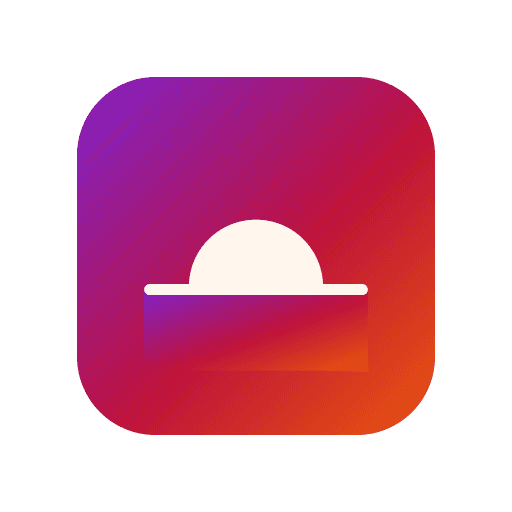
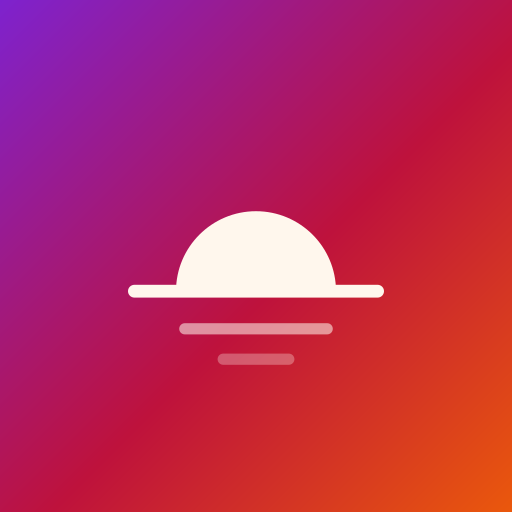
feat(m7): PWA, polish & README
- Ikon final dari public/logo.svg (perbaikan seam gradien, maskable full-bleed),
  generator `npm run ikon`; manifest dilengkapi
- Banner "Tidak ada koneksi" (tombol kirim nonaktif saat offline) dan
  "Versi baru tersedia" (registerType prompt)
- Target sentuh >= 44 px, select 16 px, invalidasi query setelah ubah master
- README: run lokal, env, setup Google Sheets, deploy, daftar endpoint

diff --git a/src/pages/MasterPage.tsx b/src/pages/MasterPage.tsx
@@ -12,6 +12,7 @@ import { SegmentedControl } from "../components/ui/SegmentedControl";
 import { EmptyState, ErrorState, ListSkeleton } from "../components/ui/States";
 import { useMe } from "../hooks/useAuth";
 import { masterKeys, useAkun, useKategori, type Akun, type JenisAkun, type Kategori, type TipeKategori } from "../hooks/useMaster";
+import { invalidateKeuangan } from "../hooks/useTransaksi";
 import { useToast } from "../hooks/useToast";
 import { ApiError, send } from "../lib/api";
 import { formatRupiah } from "../lib/format";
@@ -79,13 +80,13 @@ function AkunRow({ akun, isAdmin, onEdit, move }: {
         <div className="flex min-w-0 flex-1 items-center gap-3 px-4 py-3">{body}</div>
       )}
       {move && (
-        <div className="flex flex-col pr-2">
+        <div className="flex pr-1">
           <button
             type="button"
             onClick={move.up}
             disabled={!move.up || move.pending}
             aria-label={`Naikkan ${akun.nama}`}
-            className={`flex h-7 w-11 items-center justify-center rounded-lg text-stone-500 hover:bg-brand-50 disabled:opacity-30 ${fokus}`}
+            className={`flex size-11 items-center justify-center rounded-lg text-stone-500 hover:bg-brand-50 disabled:opacity-30 ${fokus}`}
           >
             <ChevronUp className="size-4" aria-hidden />
           </button>
@@ -94,7 +95,7 @@ function AkunRow({ akun, isAdmin, onEdit, move }: {
             onClick={move.down}
             disabled={!move.down || move.pending}
             aria-label={`Turunkan ${akun.nama}`}
-            className={`flex h-7 w-11 items-center justify-center rounded-lg text-stone-500 hover:bg-brand-50 disabled:opacity-30 ${fokus}`}
+            className={`flex size-11 items-center justify-center rounded-lg text-stone-500 hover:bg-brand-50 disabled:opacity-30 ${fokus}`}
           >
             <ChevronDown className="size-4" aria-hidden />
           </button>
@@ -117,7 +118,7 @@ function AkunForm({ akun, nextUrutan, onDone }: { akun: Akun | null; nextUrutan:
       return send("PUT", `/akun/${akun.id}`, { nama: form.nama, jenis: form.jenis, urutan: akun.urutan });
     },
     onSuccess: () => {
-      qc.invalidateQueries({ queryKey: masterKeys.akun });
+      invalidateKeuangan(qc); // nama/urutan akun tampil di ringkasan, riwayat, langganan
       toast.show(akun ? "Akun disimpan" : "Akun ditambahkan");
       onDone();
     },
@@ -155,7 +156,7 @@ function AkunTab({ isAdmin }: { isAdmin: boolean }) {
 
   const urutkan = useMutation({
     mutationFn: (ids: string[]) => send("PUT", "/akun/urutan", { ids }),
-    onSettled: () => qc.invalidateQueries({ queryKey: masterKeys.akun }),
+    onSettled: () => invalidateKeuangan(qc),
     onError: (e) => toast.show(e instanceof ApiError ? e.title : "Gagal mengubah urutan.", "error"),
   });
 
@@ -247,6 +248,7 @@ function KategoriForm({ kategori, tipe, onDone }: { kategori: Kategori | null; t
     },
     onSuccess: () => {
       qc.invalidateQueries({ queryKey: masterKeys.kategori });
+      invalidateKeuangan(qc);
       toast.show(kategori ? "Kategori disimpan" : "Kategori ditambahkan");
       onDone();
     },

diff --git a/scripts/buat_ikon.ts b/scripts/buat_ikon.ts
@@ -1,0 +1,51 @@
+// Generate ikon PWA dari public/logo.svg: `npm run ikon`.
+// - pwa-64/192/512, apple-touch-icon (latar penuh, tanpa sudut transparan untuk iOS), favicon.ico
+// - maskable-icon: latar gradien penuh (full-bleed), logo di zona aman 80% sesuai spesifikasi maskable
+
+import { readFileSync, writeFileSync } from "node:fs";
+import sharp from "sharp";
+
+const logo = readFileSync("public/logo.svg", "utf8");
+
+// Versi tanpa sudut membulat: dipakai untuk apple-touch-icon dan maskable
+const fullBleed = logo.replace('rx="112" fill="url(#langit)"', 'fill="url(#langit)"');
+
+// Maskable: isi (matahari + cakrawala) diperkecil ke 80% di tengah, latar tetap penuh
+const maskable = fullBleed.replace(
+  /(<rect width="512" height="512" fill="url\(#langit\)"\/>)([\s\S]*)(<\/svg>)/,
+  '$1<g transform="translate(51.2 51.2) scale(0.8)">$2</g>$3',
+);
+
+const png = (svg: string, size: number) => sharp(Buffer.from(svg), { density: 300 }).resize(size, size).png().toBuffer();
+
+/** ICO berisi satu gambar PNG (didukung semua browser modern). */
+function ico(pngData: Buffer, size: number): Buffer {
+  const header = Buffer.alloc(6);
+  header.writeUInt16LE(0, 0);
+  header.writeUInt16LE(1, 2);
+  header.writeUInt16LE(1, 4);
+  const entry = Buffer.alloc(16);
+  entry.writeUInt8(size >= 256 ? 0 : size, 0);
+  entry.writeUInt8(size >= 256 ? 0 : size, 1);
+  entry.writeUInt8(0, 2);
+  entry.writeUInt8(0, 3);
+  entry.writeUInt16LE(1, 4);
+  entry.writeUInt16LE(32, 6);
+  entry.writeUInt32LE(pngData.length, 8);
+  entry.writeUInt32LE(6 + 16, 12);
+  return Buffer.concat([header, entry, pngData]);
+}
+
+const keluaran: [string, Promise<Buffer>][] = [
+  ["public/pwa-64x64.png", png(logo, 64)],
+  ["public/pwa-192x192.png", png(logo, 192)],
+  ["public/pwa-512x512.png", png(logo, 512)],
+  ["public/apple-touch-icon-180x180.png", png(fullBleed, 180)],
+  ["public/maskable-icon-512x512.png", png(maskable, 512)],
+  ["public/favicon.ico", png(logo, 48).then((b) => ico(b, 48))],
+];
+
+for (const [file, data] of keluaran) {
+  writeFileSync(file, await data);
+  console.log(`Ditulis ${file}`);
+}

diff --git a/src/pages/RiwayatPage.tsx b/src/pages/RiwayatPage.tsx
@@ -30,7 +30,7 @@ function FilterChip({ label, value, options, onChange, wajib }: FilterChipProps)
   const aktif = Boolean(value) && !wajib;
   return (
     <span
-      className={`relative flex min-h-10 shrink-0 items-center rounded-full border text-sm font-semibold ${
+      className={`relative flex min-h-11 shrink-0 items-center rounded-full border text-base font-semibold ${
         aktif ? "border-brand-700 bg-brand-50 text-brand-700" : "border-garis bg-white text-stone-700"
       }`}
     >
@@ -38,7 +38,7 @@ function FilterChip({ label, value, options, onChange, wajib }: FilterChipProps)
         aria-label={label}
         value={value}
         onChange={(e) => onChange(e.target.value)}
-        className={`min-h-10 max-w-44 appearance-none truncate rounded-full bg-transparent pr-3 pl-4 ${aktif ? "pr-9" : ""} ${fokus}`}
+        className={`min-h-11 max-w-44 appearance-none truncate rounded-full bg-transparent pr-3 pl-4 ${aktif ? "pr-11" : ""} ${fokus}`}
       >
         {!wajib && <option value="">{label}</option>}
         {options.map((o) => (
@@ -52,7 +52,7 @@ function FilterChip({ label, value, options, onChange, wajib }: FilterChipProps)
           type="button"
           aria-label={`Hapus filter ${label}`}
           onClick={() => onChange("")}
-          className={`absolute right-1 flex size-8 items-center justify-center rounded-full hover:bg-brand-100 ${fokus}`}
+          className={`absolute right-0 flex size-11 items-center justify-center rounded-full hover:bg-brand-100 ${fokus}`}
         >
           <X className="size-4" aria-hidden />
         </button>

diff --git a/src/components/StatusBanner.tsx b/src/components/StatusBanner.tsx
@@ -1,0 +1,38 @@
+import { RefreshCw, WifiOff } from "lucide-react";
+import { useRegisterSW } from "virtual:pwa-register/react";
+import { useOnline } from "../hooks/useOnline";
+import { fokus } from "./ui/Button";
+
+/** Banner "Tidak ada koneksi" dan "Versi baru tersedia" di atas semua halaman (02 M7). */
+export default function StatusBanner() {
+  const online = useOnline();
+  const {
+    needRefresh: [perluMuatUlang],
+    updateServiceWorker,
+  } = useRegisterSW();
+
+  if (online && !perluMuatUlang) return null;
+  return (
+    <div className="sticky top-0 z-30 flex flex-col" style={{ paddingTop: "env(safe-area-inset-top)" }}>
+      {!online && (
+        <p role="status" className="flex items-center justify-center gap-2 bg-stone-800 px-4 py-2 text-sm font-semibold text-white">
+          <WifiOff className="size-4" aria-hidden />
+          Tidak ada koneksi. Perubahan belum bisa disimpan.
+        </p>
+      )}
+      {perluMuatUlang && (
+        <div role="status" className="flex items-center justify-center gap-3 bg-brand-700 px-4 py-1.5 text-sm font-semibold text-white">
+          Versi baru tersedia
+          <button
+            type="button"
+            onClick={() => updateServiceWorker(true)}
+            className={`inline-flex min-h-11 items-center gap-1.5 rounded-lg px-3 underline-offset-2 hover:underline ${fokus} focus-visible:ring-white focus-visible:ring-offset-brand-700`}
+          >
+            <RefreshCw className="size-4" aria-hidden />
+            Muat ulang
+          </button>
+        </div>
+      )}
+    </div>
+  );
+}

diff --git a/src/components/ui/Button.tsx b/src/components/ui/Button.tsx
@@ -1,5 +1,6 @@
 import type { ButtonHTMLAttributes } from "react";
 import { LoaderCircle } from "lucide-react";
+import { useOnline } from "../../hooks/useOnline";
 
 export const fokus =
   "focus-visible:outline-none focus-visible:ring-2 focus-visible:ring-brand-400 focus-visible:ring-offset-2";
@@ -16,14 +17,19 @@ interface ButtonProps extends ButtonHTMLAttributes<HTMLButtonElement> {
   variant?: keyof typeof VARIANT;
   loading?: boolean;
   block?: boolean;
+  /** Tombol yang mengirim ke server: dinonaktifkan saat offline. Default true untuk `type="submit"`. */
+  kirim?: boolean;
 }
 
-export function Button({ variant = "primary", loading, block, disabled, className = "", children, ...rest }: ButtonProps) {
+export function Button({ variant = "primary", loading, block, kirim, disabled, className = "", children, ...rest }: ButtonProps) {
+  const online = useOnline();
+  const offline = (kirim ?? rest.type === "submit") && !online;
   return (
     <button
       type="button"
       {...rest}
-      disabled={disabled || loading}
+      disabled={disabled || loading || offline}
+      title={offline ? "Tidak ada koneksi" : rest.title}
       aria-busy={loading || undefined}
       className={`inline-flex min-h-11 items-center justify-center gap-2 rounded-xl px-4 text-sm font-semibold transition-colors disabled:cursor-not-allowed ${fokus} ${VARIANT[variant]} ${block ? "w-full" : ""} ${className}`}
     >

diff --git a/src/pages/TransaksiFormPage.tsx b/src/pages/TransaksiFormPage.tsx
@@ -245,7 +245,7 @@ function TransaksiForm({ edit }: { edit?: Transaksi }) {
                       type="button"
                       aria-pressed={form.biayaAdmin === b}
                       onClick={() => set("biayaAdmin", b)}
-                      className={`min-h-9 rounded-full border px-3 text-sm font-semibold ${fokus} ${
+                      className={`min-h-11 rounded-full border px-4 text-sm font-semibold ${fokus} ${
                         form.biayaAdmin === b ? "border-brand-700 bg-brand-50 text-brand-700" : "border-garis bg-white text-stone-700"
                       }`}
                     >
@@ -300,7 +300,7 @@ function TransaksiForm({ edit }: { edit?: Transaksi }) {
           Simpan
         </Button>
         {!edit && (
-          <Button variant="secondary" block loading={simpan.isPending && simpan.variables} onClick={() => simpan.mutate(true)}>
+          <Button variant="secondary" block kirim loading={simpan.isPending && simpan.variables} onClick={() => simpan.mutate(true)}>
             Simpan & catat lagi
           </Button>
         )}

diff --git a/vite.config.ts b/vite.config.ts
@@ -10,18 +10,24 @@ export default defineConfig({
     react(),
     tailwindcss(),
     VitePWA({
-      registerType: "autoUpdate",
+      // "prompt": versi baru menunggu konfirmasi lewat banner, supaya isian form tidak hilang karena reload otomatis
+      registerType: "prompt",
       includeAssets: ["favicon.ico", "apple-touch-icon-180x180.png"],
       manifest: {
+        id: "/",
         name: "Saku",
         short_name: "Saku",
         description: "Pencatatan keuangan pribadi",
         lang: "id",
         start_url: "/",
+        scope: "/",
         display: "standalone",
+        orientation: "portrait",
+        categories: ["finance"],
         background_color: "#fffaf5",
         theme_color: "#c2410c",
         icons: [
+          { src: "pwa-64x64.png", sizes: "64x64", type: "image/png" },
           { src: "pwa-192x192.png", sizes: "192x192", type: "image/png" },
           { src: "pwa-512x512.png", sizes: "512x512", type: "image/png" },
           { src: "maskable-icon-512x512.png", sizes: "512x512", type: "image/png", purpose: "maskable" },

diff --git a/src/pages/DashboardPage.tsx b/src/pages/DashboardPage.tsx
@@ -145,9 +145,9 @@ export default function DashboardPage() {
                   to={`/akun/${a.akunId}`}
                   className={`flex w-32 shrink-0 flex-col gap-1 rounded-2xl border border-garis bg-white p-3 shadow-sm hover:bg-brand-50 ${fokus}`}
                 >
-                  <span className="flex items-center gap-1.5 truncate text-sm font-semibold text-stone-700">
+                  <span className="flex min-w-0 items-center gap-1.5 text-sm font-semibold text-stone-700">
                     <AkunIcon jenis={a.jenis} className="size-4 shrink-0 text-brand-600" />
-                    {a.nama}
+                    <span className="truncate">{a.nama}</span>
                   </span>
                   <span className={`font-bold tabular-nums ${a.saldoAkhir < 0 ? "text-keluar" : ""}`}>{formatRupiahRingkas(a.saldoAkhir)}</span>
                 </Link>

diff --git a/src/pages/LanggananPage.tsx b/src/pages/LanggananPage.tsx
@@ -140,7 +140,7 @@ function LanggananCard({ b, onEdit }: { b: Berulang; onEdit: () => void }) {
         </div>
         <div className="flex shrink-0 items-center gap-1">
           <span className="font-bold tabular-nums">{formatRupiah(b.nominal)}</span>
-          <button type="button" onClick={onEdit} aria-label={`Ubah ${b.nama}`} className={`flex size-9 items-center justify-center rounded-xl text-stone-400 hover:bg-brand-50 hover:text-brand-700 ${fokus}`}>
+          <button type="button" onClick={onEdit} aria-label={`Ubah ${b.nama}`} className={`flex size-11 items-center justify-center rounded-xl text-stone-400 hover:bg-brand-50 hover:text-brand-700 ${fokus}`}>
             <Pencil className="size-4" aria-hidden />
           </button>
         </div>

diff --git a/src/pages/TabunganPage.tsx b/src/pages/TabunganPage.tsx
@@ -118,7 +118,7 @@ function RiwayatItem({ r, onHapus }: { r: RiwayatTabungan; onHapus: () => void }
         {formatAngka(Math.abs(r.nominal))}
       </span>
       {r.bisaHapus && (
-        <button type="button" onClick={onHapus} aria-label={`Hapus tarik ${r.keterangan}`} className={`flex size-10 shrink-0 items-center justify-center rounded-xl text-stone-400 hover:bg-rose-50 hover:text-keluar ${fokus}`}>
+        <button type="button" onClick={onHapus} aria-label={`Hapus tarik ${r.keterangan}`} className={`flex size-11 shrink-0 items-center justify-center rounded-xl text-stone-400 hover:bg-rose-50 hover:text-keluar ${fokus}`}>
           <Trash2 className="size-4" aria-hidden />
         </button>
       )}

diff --git a/src/components/ui/ChipPicker.tsx b/src/components/ui/ChipPicker.tsx
@@ -28,7 +28,7 @@ export function ChipPicker<T extends string>({ label, value, options, onChange, 
               aria-pressed={active}
               disabled={o.disabled}
               onClick={() => onChange(o.value)}
-              className={`min-h-10 shrink-0 rounded-full border px-4 text-sm font-semibold whitespace-nowrap transition-colors disabled:opacity-40 ${fokus} ${
+              className={`min-h-11 shrink-0 rounded-full border px-4 text-sm font-semibold whitespace-nowrap transition-colors disabled:opacity-40 ${fokus} ${
                 active ? "border-brand-700 bg-brand-50 text-brand-700" : "border-garis bg-white text-stone-700 hover:bg-brand-50"
               }`}
             >

diff --git a/src/components/ui/SegmentedControl.tsx b/src/components/ui/SegmentedControl.tsx
@@ -19,7 +19,7 @@ export function SegmentedControl<T extends string>({ label, value, options, onCh
             role="tab"
             aria-selected={active}
             onClick={() => onChange(o.value)}
-            className={`min-h-10 flex-1 rounded-lg px-3 text-sm font-semibold transition-colors ${fokus} ${
+            className={`min-h-11 flex-1 rounded-lg px-3 text-sm font-semibold transition-colors ${fokus} ${
               active ? "bg-white text-brand-700 shadow-sm" : "text-stone-500 hover:text-stone-700"
             }`}
           >
